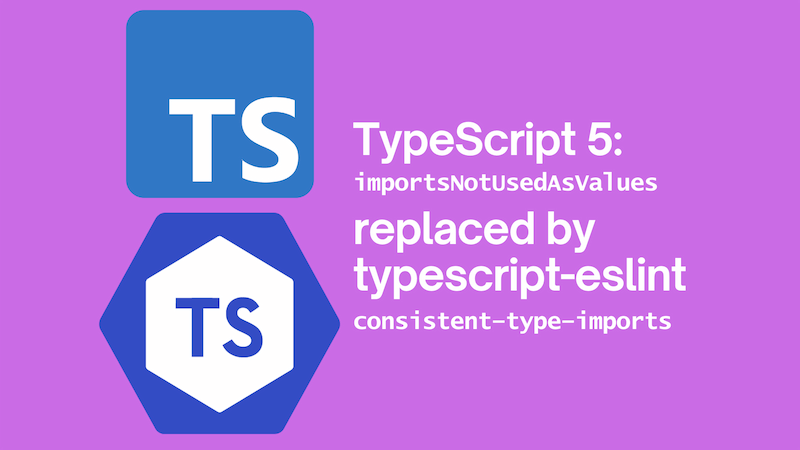
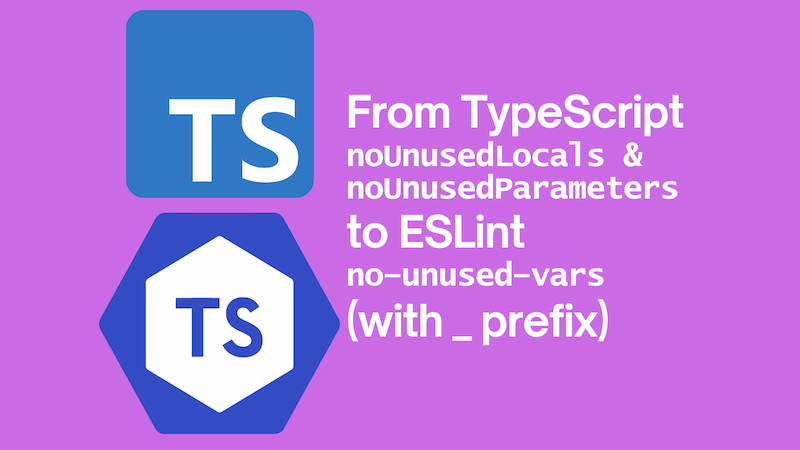
fix: start

Changed region(s): [[0.4375, 0.1867, 0.875, 0.7778]]

diff --git a/blog-website/blog/2024-02-18-typescript-eslint-no-unused-vars/index.md b/blog-website/blog/2024-02-18-typescript-eslint-no-unused-vars/index.md
@@ -8,18 +8,49 @@ description: 'ESLints no-unused-vars is more flexible than TypeScript noUnusedLo
 hide_table_of_contents: false
 ---
 
-I really like type imports that are unambiguous. For this reason, I've made use of the `"importsNotUsedAsValues": "error"` option in `tsconfig.json` for a while now. This option has been deprecated in TypeScript 5.0.0, and will be removed in TypeScript 5.5.0. This post will look at what you can do instead.
+I'm a longtime user of TypeScripts `noUnusedLocals` and `noUnusedParameters` settings. I've always found them to be a great way to ensure that I'm not leaving unused variables in my code. However, I've recently been working on a project where we're using ESLint alongside TypeScript and specifically the `no-unused-vars` rule, which provides similar functionality to TypeScripts `noUnusedLocals` and `noUnusedParameters` settings. One thing that I missed when using the ESLint option is that you can ignore unused variables by simply prefixing a variable with the `_` character. That's right, sometimes I want to declare a variable that I know I'm not going to use, and I want to do that without getting a warning from the linter.
+
+It turns out you can get ESLint respect the TypeScript default of ignoring variables prefixed with `_`, it just needs a little configuration. This post is a quick guide to how to do that.
 
 ![title image reading "From TypeScript noUnusedLocals and noUnusedParameters to ESLint no-unused-vars (with `_` prefix)" with the ESLint and TypeScript logo](title-image.png)
 
 <!--truncate-->
 
-https://github.com/typescript-eslint/typescript-eslint/issues/8464
+## When would you want to ignore unused variables?
+
+There are various reasons why I find that I want to ignore unused variables. Here are a few:
+
+- I'm writing a function that I know will be used in the future, but I'm not using all of the parameters yet.
+- An ignored variable can be a form of documentation. It can be a way to say "I know this is here, but I'm not using it right now".
+
+Not everyone will agree with these reasons, but I find them to be valid in certain situations.
+
+Just to offer the counterpoint, let me quote [Brad Zacher](https://github.com/bradzacher) who works on TypeScript ESLint:
+
+> On the one hand it is nice to have a short-hand to ignore things.
+> On the other hand it is terrible having a short-hand to ignore things - it's a single character that's easy to miss in code review - so it's easy to sneak into a commit.
+>
+> For example I recently reviewed a PR where someone innocently did something like
+>
+> ```javascript
+> import { promisify } from 'node:util';
+> import { exec as _exec } from 'node:child_process';
+>
+> const exec = promisify(_exec);
+> ```
+>
+> And they didn't realise that doing this would define a variable that would never get flagged if it's unused! Really bad!
+
+Brad has a valid point, but let's say you've decided to `--ignore-pattern 'brad'` use the `_` prefix anyway to ignore unused variables, here's how you can do it.
+
+## The TypeScript settings
 
 ```json
     "noUnusedLocals": false,
     "noUnusedParameters": false
 ```
+
+## The ESLint settings
 
 ```js
   rules: {
@@ -30,8 +61,10 @@ https://github.com/typescript-eslint/typescript-eslint/issues/8464
         caughtErrorsIgnorePattern: '^_',
         destructuredArrayIgnorePattern: '^_',
         varsIgnorePattern: '^_',
-        ignoreRestSiblings: true,
+        ignoreRestSiblings: true, // not necessary but useful
       },
     ],
   }
 ```
+
+discussion: https://github.com/typescript-eslint/typescript-eslint/issues/8464
